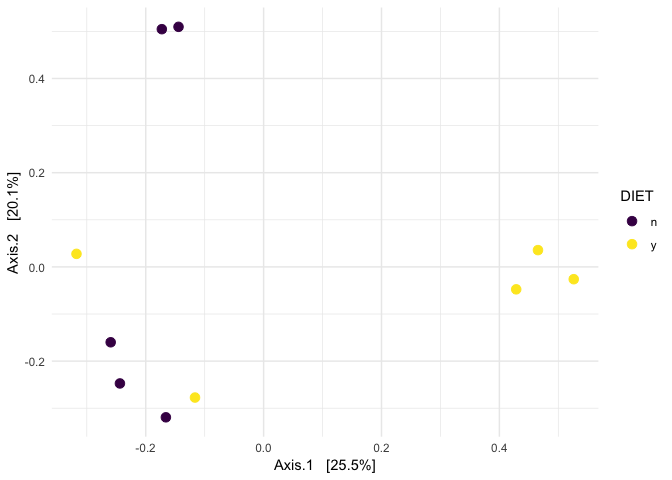
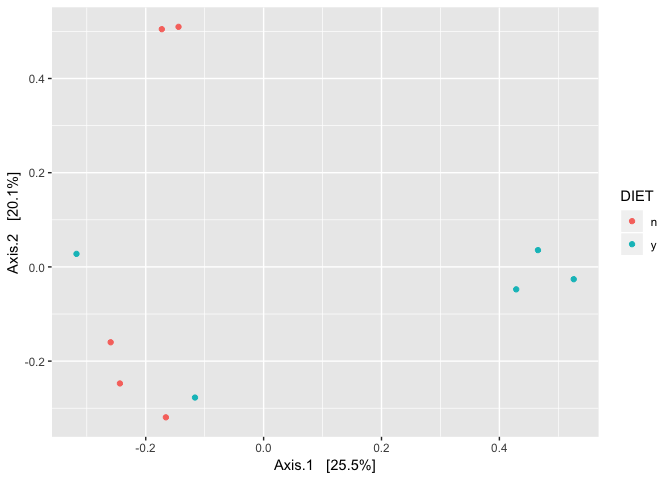
bug

diff --git a/R_for_overdispersed_data/README.md b/R_for_overdispersed_data/README.md
@@ -79,12 +79,29 @@ ARG_bt<-as.matrix(read.table("ARG_genemat.txt", fill= 1, header= T, row.names = 
 #Let's remove a gene which is not relevant for us
 
 ARG_bt<-ARG_bt[grep('oqxB', row.names(ARG_bt), invert = TRUE),]
+str(ARG_bt)
+```
 
+    ##  int [1:3082, 1:10] 0 0 0 0 0 0 0 0 0 0 ...
+    ##  - attr(*, "dimnames")=List of 2
+    ##   ..$ : chr [1:3082] "aac(6')-Ib_2_M23634" "aac(6')-Ib11_1_AY136758" "aac(6')-30-aac(6')-Ib'_1_AJ584652" "aac(6')-Iaj_1_AB709942" ...
+    ##   ..$ : chr [1:10] "02078-BA" "07004-B" "07005-B" "08012-B" ...
+
+``` r
 #Read in metadata
 sample_data<-read.table("metadata.txt", sep="\t")
+str(sample_data)
+```
 
+    ## 'data.frame':    10 obs. of  3 variables:
+    ##  $ SSU_SUM: int  47001 5705 20105 33449 41717 61420 15816 56107 54518 39373
+    ##  $ DIET   : Factor w/ 2 levels "n","y": 1 2 2 1 2 1 1 1 2 2
+    ##  $ Age    : num  30.4 33.4 32.7 35.9 33.3 ...
+
+``` r
 #Normalize to 16S counts
 ARG_bt_norm<-t(t(ARG_bt)/sample_data$SSU_SUM)
+
 
 #Check the division by using a random column and row
 identical(ARG_bt[1083, 10]/sample_data$SSU_SUM[10], ARG_bt_norm[1083, 10])
@@ -102,6 +119,14 @@ accessing and splitting data faster.
 #Make Phyloseq object with sample data and otu table. 
 baby_ARG_PHY<-phyloseq(otu_table(ARG_bt_norm, taxa_are_rows = TRUE), sample_data(sample_data))
 
+baby_ARG_PHY
+```
+
+    ## phyloseq-class experiment-level object
+    ## otu_table()   OTU Table:         [ 3082 taxa and 10 samples ]
+    ## sample_data() Sample Data:       [ 10 samples by 3 sample variables ]
+
+``` r
 #Look at the sample sums
 sample_sums(baby_ARG_PHY)
 ```
@@ -141,9 +166,6 @@ dimensions or axes of the ordination can be used to plot the location of
 samples in relation to each other in a two-dimensional space.
 
 Phyloseq has vegan built-in so we can ordinate distances using Phyloseq
-and plot the ordination.
-
-Phyloseq has vegan built-in so we can ordinate distances using Phyloseq
 and plot the
 ordination.
 
@@ -155,10 +177,16 @@ baby_ARG_PHY_ord<-ordinate(baby_ARG_PHY, "PCoA", "bray")
 
 #Plot ordination and color by Formula
 p<-plot_ordination(baby_ARG_PHY, baby_ARG_PHY_ord, color="DIET")
-p+scale_color_viridis(discrete = T) + geom_point(size=3) + theme_minimal()
+p
 ```
 
 ![](README_files/figure-gfm/unnamed-chunk-4-1.png)<!-- -->
+
+``` r
+p+scale_color_viridis(discrete = T) + geom_point(size=3) + theme_minimal()
+```
+
+![](README_files/figure-gfm/unnamed-chunk-4-2.png)<!-- -->
 
 We can see that there are more purple points on the left. Let’s test if
 the difference we see visually is also statistically significant using
@@ -170,20 +198,20 @@ function ‘otu\_table’ from the phyloseq package.
 #We use a square root transformation for the data to even out variation
 ARG_dist<-vegdist(sqrt(t((otu_table(baby_ARG_PHY)))), dist = "bray")
 
-adonis(ARG_dist~DIET, data=data.frame(sample_data(baby_ARG_PHY), permutations = 9999))
+adonis(ARG_dist~DIET, data=data.frame(sample_data(baby_ARG_PHY)), permutations = 9999)
 ```
 
     ## 
     ## Call:
-    ## adonis(formula = ARG_dist ~ DIET, data = data.frame(sample_data(baby_ARG_PHY),      permutations = 9999)) 
+    ## adonis(formula = ARG_dist ~ DIET, data = data.frame(sample_data(baby_ARG_PHY)),      permutations = 9999) 
     ## 
     ## Permutation: free
-    ## Number of permutations: 999
+    ## Number of permutations: 9999
     ## 
     ## Terms added sequentially (first to last)
     ## 
     ##           Df SumsOfSqs MeanSqs F.Model      R2 Pr(>F)  
-    ## DIET       1    0.7378 0.73776  2.0805 0.20639  0.043 *
+    ## DIET       1    0.7378 0.73776  2.0805 0.20639 0.0373 *
     ## Residuals  8    2.8368 0.35460         0.79361         
     ## Total      9    3.5746                 1.00000         
     ## ---
@@ -723,9 +751,9 @@ predicted
 ```
 
     ##  02078-BA   07004-B   07005-B   08012-B   08016-B   09024-B   09069-B 
-    ##  2930.712 20050.715 20977.604  2346.832 21336.782  2904.995  2649.969 
+    ##  2900.429 20427.816 21423.487  1931.987 21757.998  2881.297  2250.706 
     ##  10029-BA   10030-B   12042-B 
-    ##  3260.473 13916.013 20050.715
+    ##  3243.019 13819.602 20427.816
 
 ``` r
 #Print
@@ -739,5 +767,5 @@ print(fit)
     ##                      Number of trees: 1000
     ## No. of variables tried at each split: 1
     ## 
-    ##           Mean of squared residuals: 108167789
-    ##                     % Var explained: 32.28
+    ##           Mean of squared residuals: 108295535
+    ##                     % Var explained: 32.2
